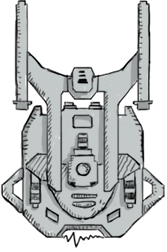
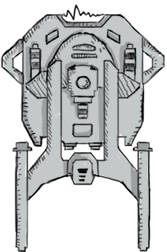
animation des gros ennemis

diff --git a/src/ennemis.py b/src/ennemis.py
@@ -1,3 +1,4 @@
+from typing import Any
 import pygame
 from constantes import *
 from projectile import Projectile
@@ -20,7 +21,10 @@ class Ennemi(pygame.sprite.Sprite):
         
         self.vivant = True
         self.existant = True
-        
+    
+    def bas(self, vitesse):
+        self.rect.top += vitesse
+
     def update(self):
         self.bas(self.vitesse)
         
@@ -33,9 +37,6 @@ class Ennemi(pygame.sprite.Sprite):
                     self.existant = False
 
             self.horloge_apparence += 1
-            
-    def bas(self, vitesse):
-        self.rect.top += vitesse
 
 
 class Petit(Ennemi):
@@ -61,11 +62,11 @@ class Moyen(Ennemi):
         
         super().__init__(apparences, coord, vitesse_moyen)
         self.projectiles = pygame.sprite.Group()
-        self.vitesse_tirs = 100
+        self.cadence_tirs = 100
         self.cooldown = 1
         
     def tirer(self):
-        if self.vivant and self.cooldown == 0 and not randint(0, self.vitesse_tirs):
+        if self.vivant and self.cooldown == 0 and not randint(0, self.cadence_tirs):
             self.cooldown += 1
             return Projectile(pygame.image.load(f"images/autres/projectile_2.png").convert_alpha(), (self.rect.left +35, self.rect.top +66), vitesse_projectile_moyen, 2)
 
@@ -74,9 +75,27 @@ class Moyen(Ennemi):
 
         if self.cooldown > 0:       #gestion de la cadence de tir
             self.cooldown += 1
-            if self.cooldown > self.vitesse_tirs:
+            if self.cooldown > self.cadence_tirs:
                 self.cooldown = 0
-        
+
+
+
+
+
+
+
+
+
+
+
+
+
+
+
+
+
+
+ 
 
 class Gros(Ennemi):
     """classe représentant un gros ennemi
@@ -84,16 +103,106 @@ class Gros(Ennemi):
     def __init__(self, coord):
         
         apparences = []
-        for i in range(1,8):
+        for i in range(1,10):
             apparences.append(pygame.image.load(f"images/ennemis/gros_{i}.png").convert_alpha())
-        
+
         super().__init__(apparences, coord, vitesse_gros)
+        self.dep_gauche = False
+        self.vitesse_laterale = vitesse_laterale_gros
+        
+        self.horloge_attaque = 0
+        self.preparation = False
+        self.tir = False
+        self.projectiles = pygame.sprite.Group()
+        self.cadence_tirs = 5
+        self.cooldown = 0
+        
+    def __setattr__(self, name, value):
+        object.__setattr__(self, name, value)
+        
+        if name == 'dep_gauche':
+            self.num_apparence = 0
+            self.image = self.apparences[0]
+            self.tir = False
+            self.preparation = False
+            self.horloge_apparence = 0
+            self.horloge_attaque = 0
+        
+    def tirer(self):
+        if self.vivant and self.tir and self.cooldown == 0:
+            self.cooldown += 1
+            return Projectile(pygame.image.load(f"images/autres/projectile_1.png").convert_alpha(), (self.rect.left +35, self.rect.top +66), vitesse_projectile_moyen, 2)
+
+    def update(self):
+        self.bas(self.vitesse)
+        #gestion du déplacement latéral
+        if self.dep_gauche:
+            self.rect.left -= self.vitesse_laterale
+        else:
+            self.rect.left += self.vitesse_laterale
+        
+        #gestion de la cadence de tir
+        if self.cooldown > 0:
+            self.cooldown += 1
+            if self.cooldown > self.cadence_tirs:
+                self.cooldown = 0
+                
+        
+        #animation de destruction du vaisseau
+        if not self.vivant:
+            if self.num_apparence < 3:
+                self.num_apparence = 2
+                self.image = self.apparences[2]
+            if self.horloge_apparence % 8 == 0:
+                if self.num_apparence < len(self.apparences)-1:
+                    self.num_apparence += 1
+                    self.image = self.apparences[self.num_apparence]
+                else:
+                    self.existant = False
+
+            self.horloge_apparence += 1
+            
+        else:
+            
+            if not self.preparation and not self.tir and not randint(0, 500):
+                self.preparation = True
+                print("début de la préparation !")
+                
+            #gestion de l'apparence durant la préparation
+            if self.preparation:
+                self.horloge_attaque += 1
+                if self.horloge_attaque % 10 < 5:
+                    self.num_apparence = 1
+                    self.image = self.apparences[1]
+                else:
+                    self.num_apparence = 2
+                    self.image = self.apparences[2]
+                if self.horloge_attaque > len(self.apparences)*20:
+                    self.preparation = False
+                    self.tir = True
+            else:
+                self.num_apparence = 0
+                self.image = self.apparences[0]
+
+
+
+
+
+
+
+
+
+
+
+
+
+
 
 
 class Vague:
     """classe représentant une vague d'entités volantes
     """
-    def __init__(self, nom, l_max, h_max, joueur, nb_simultanes, nb_petits, nb_moyens):
+    def __init__(self, nom, l_max, h_max, joueur, nb_simultanes, nb_petits, nb_moyens, nb_gros):
         self.nom = nom
         self.largeur_max = l_max
         self.hauteur_max = h_max
@@ -112,9 +221,13 @@ class Vague:
             
         for m in range(nb_moyens):
             self.ennemis.add(Moyen((0, 0)))
+        
+        for g in range(nb_gros):
+            self.ennemis.add(Gros((0, 0)))
             
         for i in range(self.nb_simultanes):
             self.placement()
+
 
     def placement(self):
         """méthode de deplacement aléatoire des nouveaux ennemis à l'écran
@@ -124,6 +237,9 @@ class Vague:
 
             ennemi_aleatoire = choice(self.ennemis.sprites())
             self.ennemis.remove(ennemi_aleatoire)
+            if isinstance(ennemi_aleatoire, Gros):
+                ennemi_aleatoire.preparation = False
+                ennemi_aleatoire.tir = False
             
             if self.coordonnee : self.coordonnee.pop()
             x = randint(20, self.largeur_max-80)
@@ -132,6 +248,8 @@ class Vague:
             self.coordonnee.append(x)
                 
             ennemi_aleatoire.rect.midbottom = (x, randint(-100, 0))
+            if isinstance(ennemi_aleatoire, Gros):
+                ennemi_aleatoire.dep_gauche = x > self.largeur_max // 2
             self.ennemis_visibles.add(ennemi_aleatoire)
     
            
@@ -143,14 +261,14 @@ class Vague:
         for e in self.ennemis_visibles:
             
             #replacement des ennemis arrivés en bas
-            if e.rect.top > self.hauteur_max:
+            if e.rect.top > self.hauteur_max or e.rect.left > self.largeur_max or e.rect.right < 0:
                 self.ennemis_visibles.remove(e)
                 self.nb_visibles -= 1
                 self.ennemis.add(e)
                 self.placement()
             
             #ajout des tirs ennemis
-            if isinstance(e, Moyen):
+            if not isinstance(e, Petit):
                 tir = e.tirer()
                 if tir:
                     self.tirs_ennemis.add(tir)
@@ -164,7 +282,7 @@ class Vague:
                 if e.vivant and p.rect.colliderect(e):
                     self.joueur.projectiles.remove(p)
                     e.vivant = False
-                    
+                   
             if not e.existant:
                 self.ennemis_visibles.remove(e)
                 self.nb_visibles -= 1

diff --git a/src/joueur.py b/src/joueur.py
@@ -21,7 +21,7 @@ class Joueur(pygame.sprite.Sprite):
         self.image_projectile = pygame.image.load(f"images/autres/projectile_1.png").convert_alpha()
         self.projectiles = pygame.sprite.Group()
         self.puissance_de_feu = 1
-        self.vitesse_tirs = 15
+        self.cadence_tirs = 15
         self.cooldown = 0
 
     def coordonnees(self):
@@ -69,7 +69,7 @@ class Joueur(pygame.sprite.Sprite):
         
         if self.cooldown > 0:       #gestion de la cadence de tir
             self.cooldown += 1
-            if self.cooldown > self.vitesse_tirs:
+            if self.cooldown > self.cadence_tirs:
                 self.cooldown = 0
         
         

diff --git a/AirFight.py b/AirFight.py
@@ -129,7 +129,8 @@ dep_haut, dep_bas, dep_gauche, dep_droit = False, False, False, False
 tirer = False
 
 
-v = Vague("vague de test", SCREEN_WIDTH, SCREEN_HEIGHT, vaisseau_joueur, 5, nb_petits=10, nb_moyens=2)
+v = Vague("vague de test", SCREEN_WIDTH, SCREEN_HEIGHT, vaisseau_joueur, 5,
+          nb_petits=3, nb_moyens=2, nb_gros=1)
 
 
 jeu_lance = True

diff --git a/src/constantes.py b/src/constantes.py
@@ -12,7 +12,9 @@ vitesse_moyen = 2
 
 vitesse_projectile_moyen = 6
 
-vitesse_gros = 4
+vitesse_gros = 1
+
+vitesse_laterale_gros = 1
 
 zone_morte = 0.2
 
